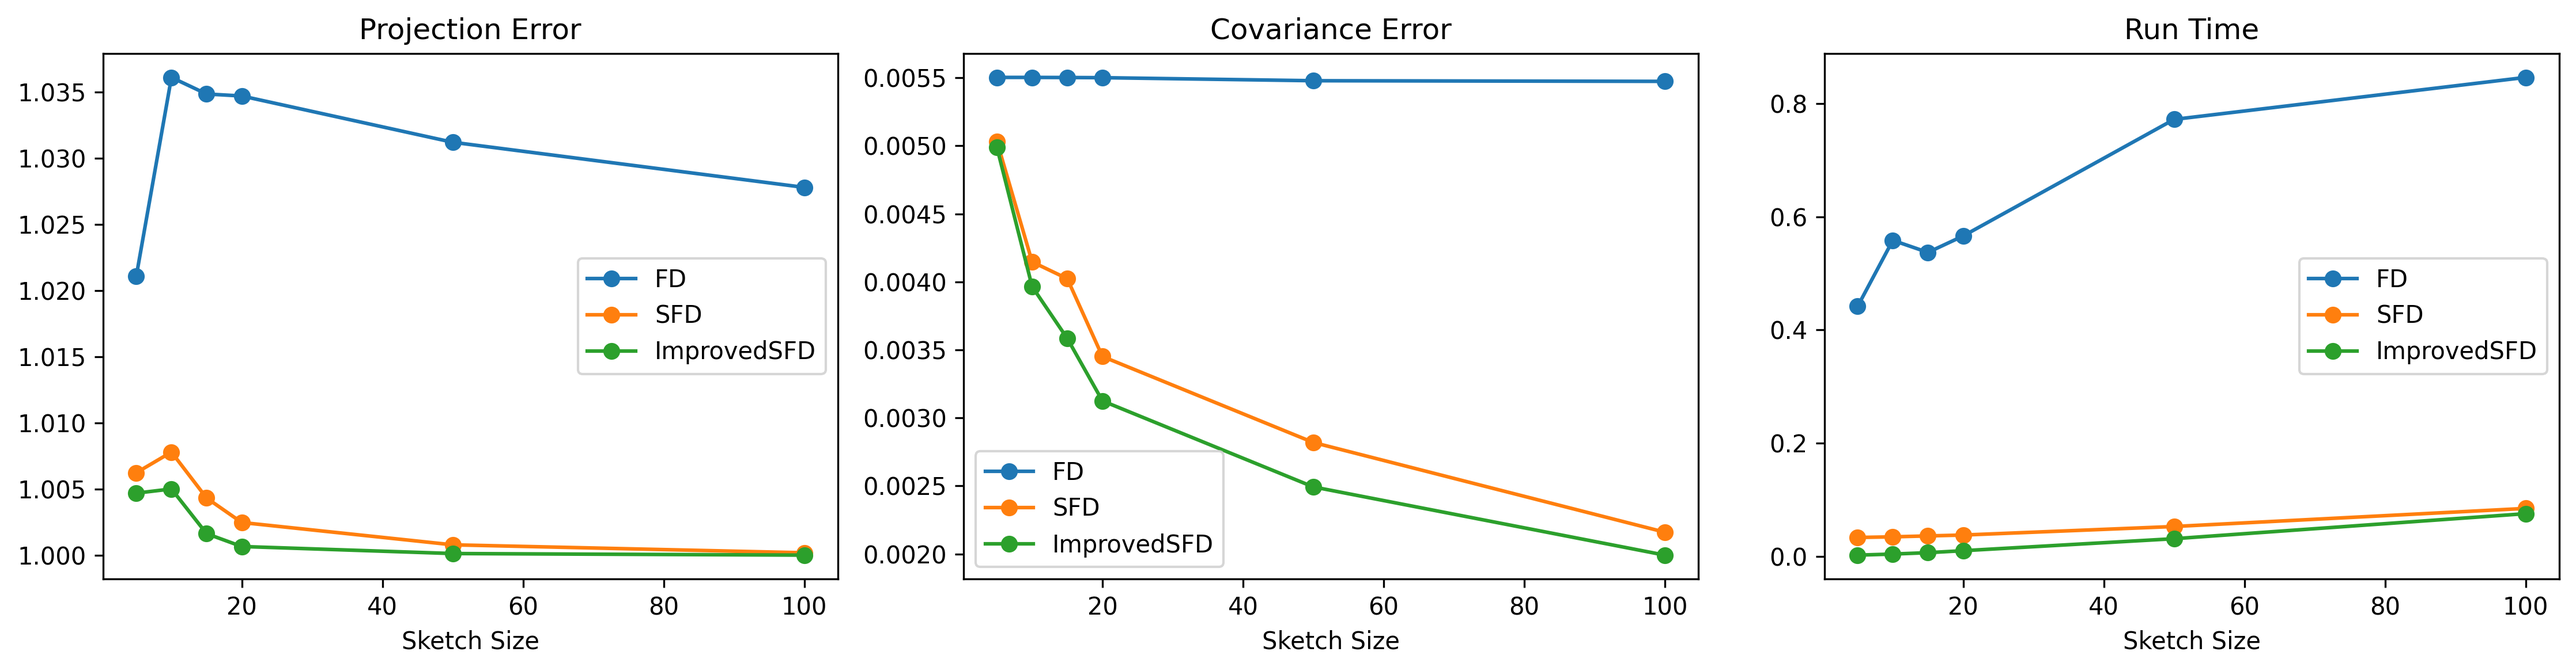
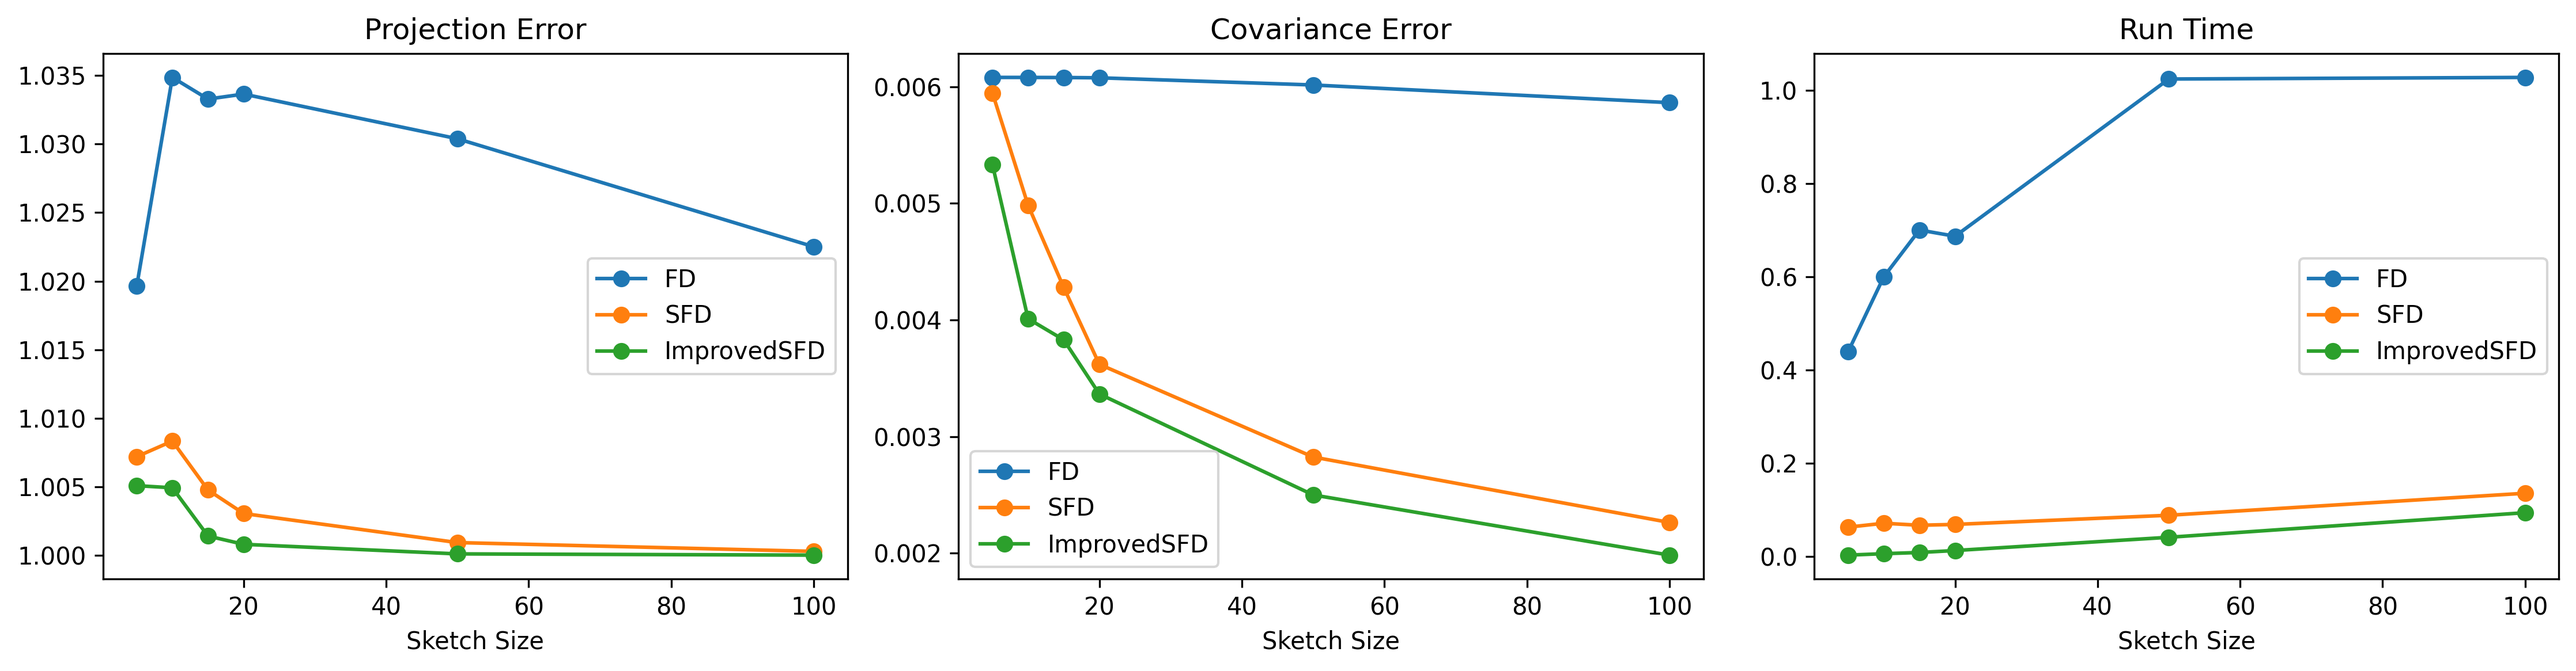
Refine

diff --git a/main.py b/main.py
@@ -311,6 +311,7 @@ def main():
     k           = config.get("experiment", "k")
     csv_path    = Path(config.get("output", "results_dir"))
     output_dir  = Path(config.get("output", "figures_dir"))
+    test_type   = config.get("experiment", "test_type")
 
     csv_path.parent.mkdir(parents=True, exist_ok=True)
     output_dir.mkdir(parents=True, exist_ok=True)
@@ -335,32 +336,50 @@ def main():
         },
     )
 
-    results_real = runner.run_sketch_size_experiment(
-        A=real_data,
-        l_values=l_values,
-        dataset_name="real",
-    )
-    results_synthetic = run_synthetic_parameter_sweep(runner)
-    results = pd.concat([results_real, results_synthetic], ignore_index=True)
-    numerical_comparison(results)
+    results_list = []
+    if test_type in ["real", "both"]:
+        real_data = get_real_data(config=config)
+
+        results_real = runner.run_sketch_size_experiment(
+            A=real_data,
+            l_values=l_values,
+            dataset_name="real",
+        )
+
+        print("*****=== Real Data Results ===*****")
+        numerical_comparison(results_real)
+
+        results_list.append(results_real)
+
+        real_plotter = RealDataVisualizer(
+            csv_path=csv_path,
+            output_dir=output_dir,
+        )
+
+    if test_type in ["syn", "both"]:
+        results_syn = run_synthetic_parameter_sweep(runner)
+
+        print("\n*****=== Synthetic Data Results ===*****")
+        numerical_comparison(results_syn)
+
+        results_list.append(results_syn)
+
+        synthetic_plotter = SyntheticDataVisualizer(
+            csv_path=csv_path,
+            output_dir=output_dir,
+        )
+
+    results = pd.concat(results_list, ignore_index=True)
     results.to_csv(csv_path, index=False)
     logger.info("Saved results to %s", csv_path)
 
-    real_plotter = RealDataVisualizer(
-        csv_path=csv_path,
-        output_dir=output_dir,
-    )
+    if test_type in ["real", "both"]:
+        real_plot_path = real_plotter.plot()
+        logger.info("Real plot saved to: %s", real_plot_path)
 
-    synthetic_plotter = SyntheticDataVisualizer(
-        csv_path=csv_path,
-        output_dir=output_dir,
-    )
-
-    real_plot_path = real_plotter.plot()
-    synthetic_plot_path = synthetic_plotter.plot()
-
-    logger.info("Real plot saved to: %s", real_plot_path)
-    logger.info("Synthetic plot saved to: %s", synthetic_plot_path)
+    if test_type in ["syn", "both"]:
+        synthetic_plot_path = synthetic_plotter.plot()
+        logger.info("Synthetic plot saved to: %s", synthetic_plot_path)
 
 if __name__ == "__main__":
     main()
